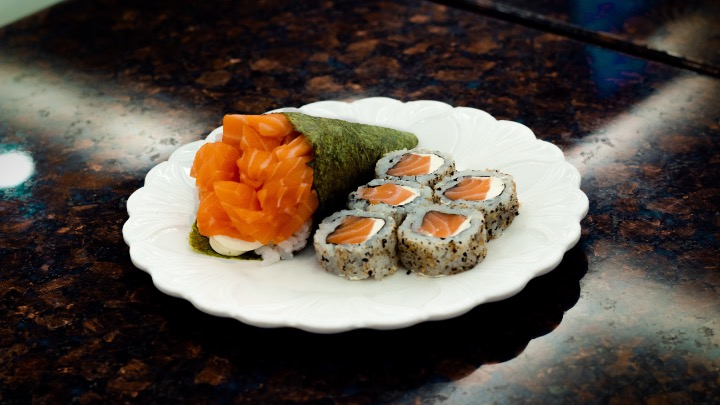
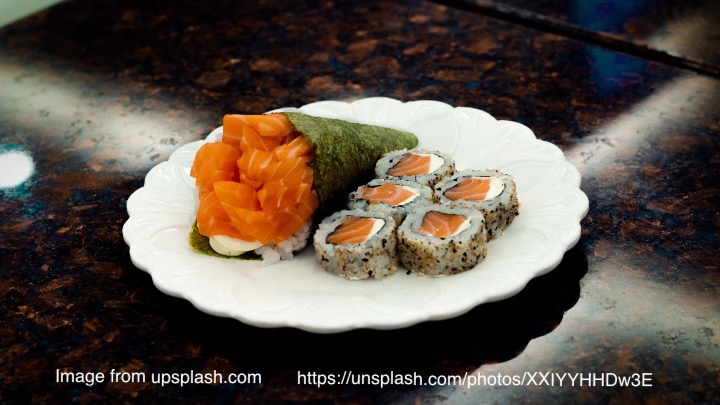
add comit

Changed region(s): [[0.3972, 0.9185, 0.9167, 0.9778], [0.0611, 0.9185, 0.3667, 0.9481]]

diff --git a/midterm-assignment/about.html b/midterm-assignment/about.html
@@ -84,7 +84,7 @@
             <div class="persona4">
                 <div class="p4p">
                     <img src="img/people/p4.jpg" alt="Jason-Wang" class="p4i">
-                    <!--This photo is from unsplash.com   https://unsplash.com/photos/KchIV_GDy6U-->
+                    <!--All the images are from unsplash.com, I sited all the images source on my html and css file, I also sited the source at the bottom of every images.-->
                     <div class="psocial">
                         <a href="#"><img class="about-ig" src="img/icons/instagram.svg" alt="instagram"></a>
                         <a href="#"><img class="about-tw" src="img/icons/twitter.svg" alt="twitter"></a>

diff --git a/midterm-assignment/menu.html b/midterm-assignment/menu.html
@@ -8,7 +8,7 @@
     <meta name="viewport" content="width=device-width, initial-scale=1.0">
     <title>Menu - Hanabi Japanese Cuisine</title>
 </head>
-<!--All the images are from unsplash.com, I sited all the images source on my html and css file.-->
+<!--All the images are from unsplash.com, I sited all the images source on my html and css file, I also sited the source at the bottom of every images.-->
 <body>
     <header class="home-header">
             <a href="index.html" class="logo">

diff --git a/midterm-assignment/contact.html b/midterm-assignment/contact.html
@@ -8,7 +8,7 @@
     <meta name="viewport" content="width=device-width, initial-scale=1.0">
     <title>Contact - Hanabi Japanese Cuisine</title>
 </head>
-<!--All the images are from unsplash.com, I sited all the images source on my html and css file.-->
+<!--All the images are from unsplash.com, I sited all the images source on my html and css file, I also sited the source at the bottom of every images.-->
 <body>
     <header class="home-header">
 		<a href="index.html" class="logo">

diff --git a/midterm-assignment/index.html b/midterm-assignment/index.html
@@ -8,7 +8,7 @@
     <meta name="viewport" content="width=device-width, initial-scale=1.0">
     <title>Hanabi Japanese Cuisine</title>
 </head>
-<!--All the images are from unsplash.com, I sited all the images source on my html and css file.-->
+<!--All the images are from unsplash.com, I sited all the images source on my html and css file, I also sited the source at the bottom of every images.-->
 <body>
     <header class="home-header">
             <a href="index.html" class="logo">
